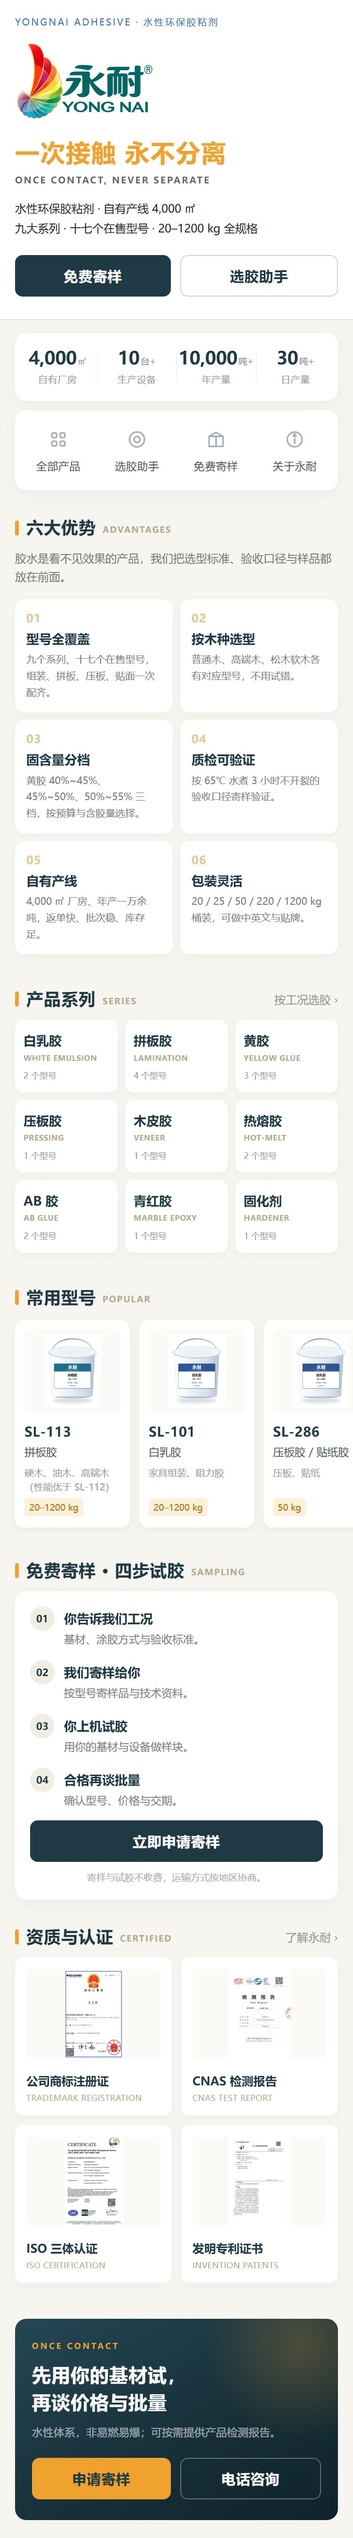
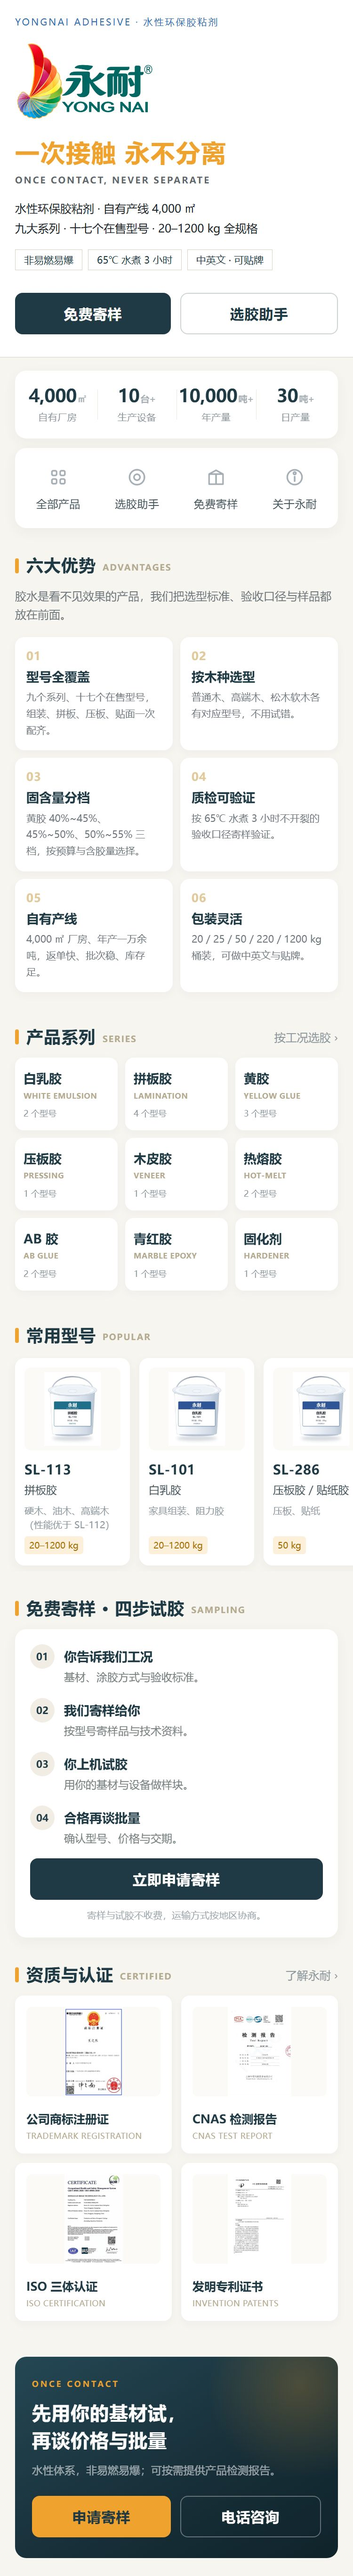
feat(home): 首屏增加三个方框特性标签，样式对齐贝之然 coverTags

diff --git a/miniprogram/pages/home/home.ts b/miniprogram/pages/home/home.ts
@@ -20,6 +20,7 @@ interface QuickEntry {
 
 Page({
   data: {
+    heroTags: ['非易燃易爆', '65℃ 水煮 3 小时', '中英文 · 可贴牌'],
     stats: STATS,
     advantages: ADVANTAGES,
     advantageNote: ADVANTAGE_NOTE,
